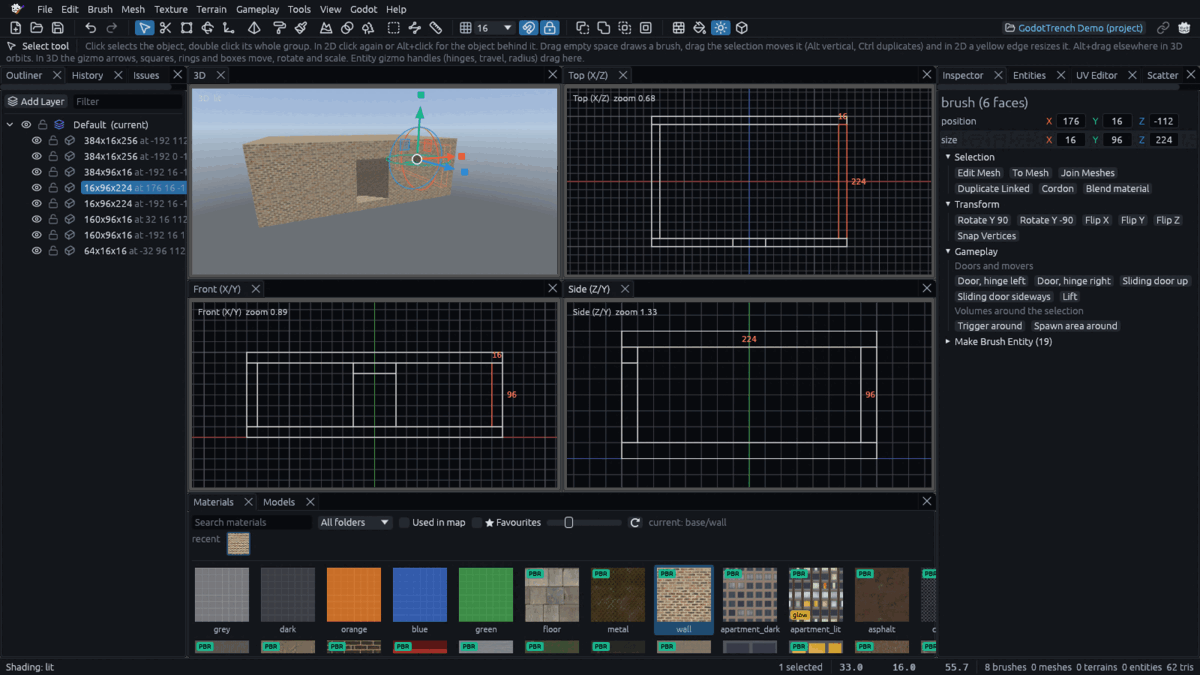
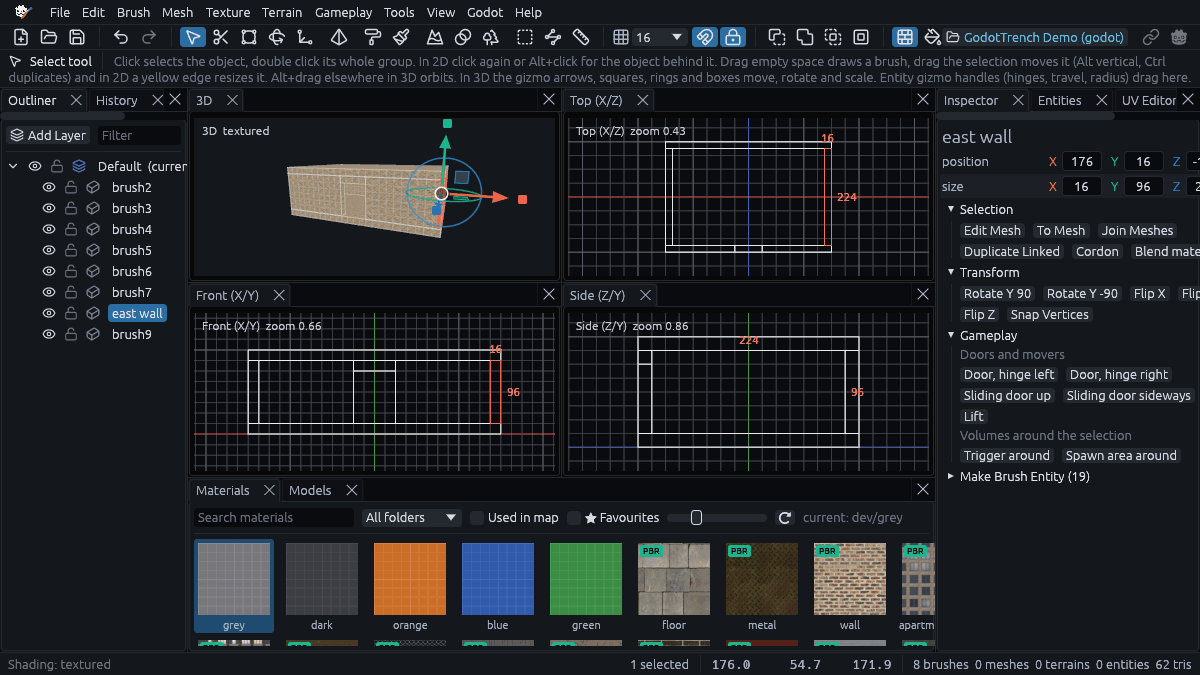
Add a page for Unity and Blender users, refresh the interface screenshot
The screenshot still showed Outliner rows named by size. The History row in the panel table now says that clicking an entry undoes it too.

diff --git a/docs/editor/coming-from-unity-blender.md b/docs/editor/coming-from-unity-blender.md
@@ -1,0 +1,40 @@
+# Coming from Unity or Blender
+
+GodotTrench is a brush editor in the line of TrenchBroom and Hammer, so a level starts as solid blocks you draw on a
+grid rather than as imported meshes. Most ideas from Unity and Blender still have a place here, only under other
+names and keys. This page maps them, and [Getting started](../getting-started.md) walks through a first room.
+
+## Where things are
+
+| In Unity or Blender | In GodotTrench |
+| --- | --- |
+| Hierarchy, Outliner | The **Outliner**, with [layers and groups](organizing.md) instead of parent objects |
+| Inspector, N panel | The **Inspector**. Its position and size fields take typed values, Enter applies them |
+| Scene view, viewport | The 3D view plus the Top, Front and Side views. Drawing and lining things up is easiest in 2D |
+| ProBuilder shapes, Add menu | Drag in any view to draw a box [brush](brushes.md), Ctrl+Shift+B for arches, stairs and cylinders |
+| Boolean modifier | *Brush > CSG*: subtract (Ctrl+K), merge, intersect and hollow. They change the brushes right away, there is no modifier stack |
+| Edit mode | The **Vertex** tool for brushes, the **Mesh** tool for [meshes](meshes.md), both on Tab |
+| Prefabs | [Prefabs](organizing.md#prefabs), saved as their own map and updated in every instance |
+| Linked duplicate (Alt+D) | Duplicate linked, Ctrl+Shift+D, so the copies share their geometry |
+| Units, 1 m | 32 map units are one meter, the default grid step is 16 |
+
+## Keys that differ
+
+The default keys follow TrenchBroom, and three of them catch Blender users out. **G** is the terrain Sculpt tool, not
+grab. **R** and **T** pick the Rotate and Scale tools, which work on the selection with handles instead of following the
+mouse. **Tab** edits the selection where it stands. To move something, drag it in any view or use the gizmo in the 3D
+view, and use the Inspector for exact numbers.
+
+*File > Preferences > Keymap preset* switches to the Blender preset. It adds A to select all, X to delete, Shift+D to
+duplicate, H and Alt+H to hide and show, S for the Scale tool and Shift+A for the shape generator. G stays Sculpt, and
+typing a number during a move only works inside the Mesh tool. The full list is under
+[Other presets](shortcuts.md#other-presets).
+
+There are no numpad views. The Top, Front and Side views are always open, Shift+Space maximizes the one under the
+pointer and *View > Views* switches between one, two and four.
+
+## Habits that carry over
+
+In the Mesh tool the keys follow Blender: 1, 2 and 3 for vertices, edges and faces, G, R and S with X, Y or Z to lock
+an axis, E to extrude, Ctrl+R for a loop cut and Ctrl+B to bevel. Right drag with WASD flies the 3D camera like
+Unity's scene view, and F frames the selection. Ctrl+Z and Ctrl+Shift+Z undo and redo, and F2 renames.

diff --git a/docs/editor/interface.md b/docs/editor/interface.md
@@ -1,7 +1,7 @@
 # Interface and navigation
 
 GodotTrench follows TrenchBroom and Hammer, so if you have used either, most habits carry over. If not, this page
-covers what you need.
+covers what you need, and [Coming from Unity or Blender](coming-from-unity-blender.md) maps the ideas you know.
 
 ## The window
 
@@ -18,7 +18,7 @@ and the 2D views say where to drag. **Hide tips** turns them off, and *File > Pr
 | Panel | Dock | What it is for |
 | --- | --- | --- |
 | Outliner | Left | The map as a tree of [layers, groups](organizing.md) and objects |
-| History | Left | Every edit, click one to undo back to it |
+| History | Left | Every edit. Clicking one undoes it and everything after it, clicking a dimmed one redoes up to it |
 | Issues | Left | Problems found as you work, like faces with no material |
 | Inspector | Right | The selection's properties, such as an entity's keys or a brush's exact position and size |
 | Entities | Right | Entity classes to drag into a view |

diff --git a/docs/SUMMARY.md b/docs/SUMMARY.md
@@ -6,6 +6,7 @@
 ## Editor
 
 * [Interface and navigation](editor/interface.md)
+* [Coming from Unity or Blender](editor/coming-from-unity-blender.md)
 * [Brushes and CSG](editor/brushes.md)
 * [Meshes](editor/meshes.md)
 * [Models](editor/models.md)
